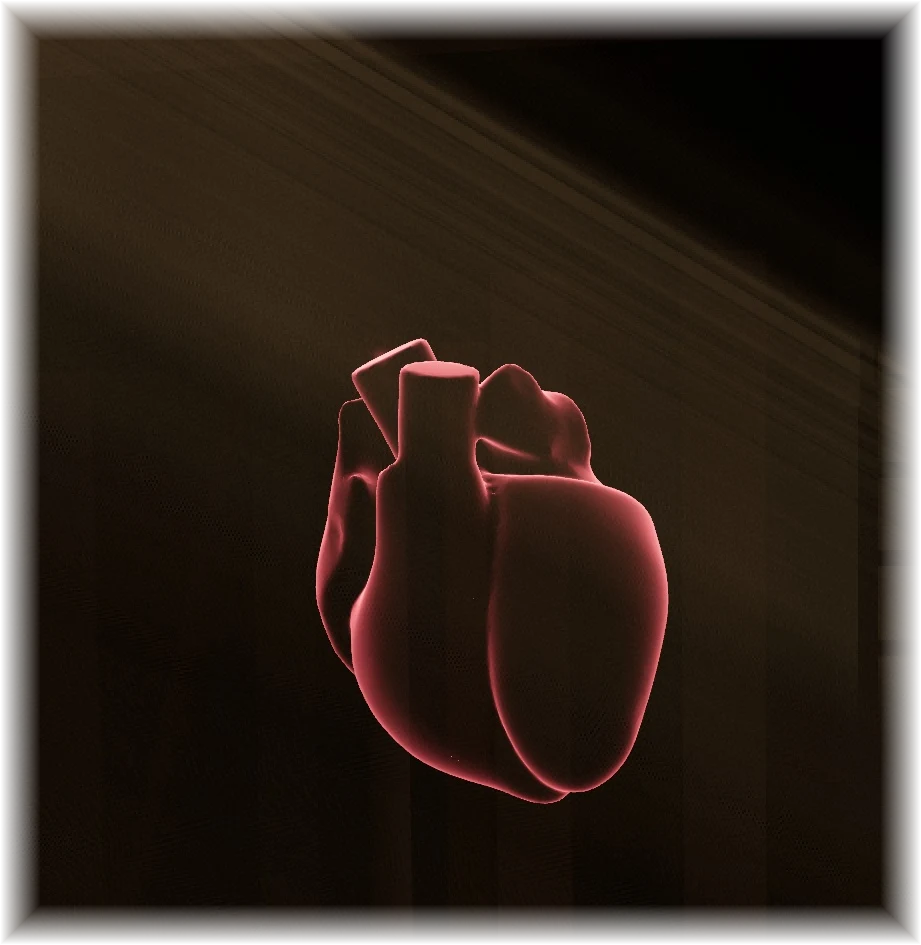
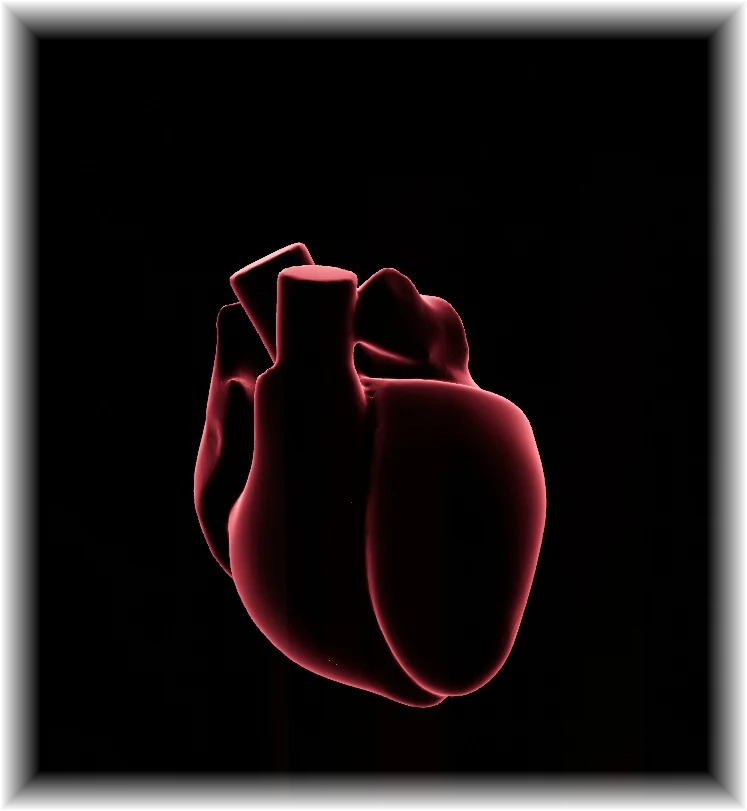
D-195 round 2: clear stale fog render when archive shafts switch off (light streaks in the intro wave stage), re-render heart frames
Claude-Session: https://claude.ai/code/session_01AXbpXSdzA7KrmCTamq6EbE

diff --git a/prototype/v2/src/story/intro/archive.ts b/prototype/v2/src/story/intro/archive.ts
@@ -376,13 +376,17 @@ export async function createArchive(variant:ArchiveVariant='base'){
       vec2 o=t-.5-f;float k=exp(-dot(o,o)*.45)*exp(-abs(q.a-dist)/(.04+.06*dist)*3.);s+=q.rgb*k;w+=k;}
      vec3 fogc=w>1e-4?s/w:texture2D(tFog,vUv).rgb;
      gl_FragColor=vec4(mix(col,uHazeCol,hz)+fogc,1.);}`}));
+  let fogDirty=false;
   class FogPass extends Pass{
    constructor(){super();this.needsSwap=true;}
    setSize(w:number,h:number){fogRT.setSize(Math.max(1,Math.ceil(w/2)),Math.max(1,Math.ceil(h/2)));cu.uFogSize.value.set(fogRT.width,fogRT.height);}
    render(r:THREE.WebGLRenderer,write:THREE.WebGLRenderTarget,read:THREE.WebGLRenderTarget){
     cu.tBase.value=read.texture;
-    if(vu.uOn.value<.002&&vu.uCOn.value<.002){r.setRenderTarget(this.renderToScreen?null:write);comp.render(r);return;}   // haze only
-    r.setRenderTarget(fogRT);fogQ.render(r);
+    // 2026-11-25 D-195: 빛기둥이 꺼지면 마지막 안개 그림(fogRT)이 남아 합성에 그대로 더해졌다(합성은 안개를 세기와 무관하게 더함) —
+    // 진행이 급히 바뀌면(영상 녹화 · 되돌아가기) 첫 화면의 빛줄기가 파형 단계에 남음. 꺼지는 순간 한 번 비운다.
+    if(vu.uOn.value<.002&&vu.uCOn.value<.002){if(fogDirty){const cc=r.getClearColor(new THREE.Color()),ca=r.getClearAlpha();r.setRenderTarget(fogRT);r.setClearColor(0x000000,0);r.clear();r.setClearColor(cc,ca);fogDirty=false;}
+     r.setRenderTarget(this.renderToScreen?null:write);comp.render(r);return;}   // haze only
+    r.setRenderTarget(fogRT);fogQ.render(r);fogDirty=true;
     r.setRenderTarget(this.renderToScreen?null:write);comp.render(r);}
    dispose(){fogRT.dispose();fogQ.dispose();comp.dispose();}
   }

diff --git a/prototype/v2/src/story/intro/introStage.ts b/prototype/v2/src/story/intro/introStage.ts
@@ -124,6 +124,7 @@ export async function createIntro(dom:IntroDom,data:IntroData,opt:IntroOptions){
  // D-190 ?perf=merge: 출력 변환 + 색보정 한 단계(createFinal) · ?perf=fxaa: MSAA 대신 마지막에 FXAA 한 단계(sRGB 화면에서)
  const MERGE=PERF.has('merge'),FXAA=PERF.has('fxaa');
  const grade=MERGE?createFinal(renderer.toneMappingExposure):createGrade();
+ if(IQ.has('introdbg'))(globalThis as unknown as {__introDbg:unknown}).__introDbg={renderer,composer,bloom,grade,scene};   // 원인 분석용(?introdbg)
  if(MERGE)composer.addPass(grade);else{composer.addPass(new OutputPass());if(!OFF('igrade'))composer.addPass(grade);}
  const fxaa=FXAA?new FXAAPass():null;if(fxaa)composer.addPass(fxaa);
  const grid=createGrid(dom.grid);

diff --git a/PLAN.md b/PLAN.md
@@ -1,3 +1,4 @@
+- 2026-11-25 D-195 2차: 도입부 파형 단계의 빛줄기 — 원인 = 서고 안개 효과가 세기 0일 때 마지막 안개 그림을 계속 더함(녹화가 진행을 건너뛰어 첫 화면 빛기둥이 남음). 안개 그림을 비우도록 고치고 심장 박동 프레임 재녹화. 진행 중: 잡음 3장면 영상화(D-196).
 - 2026-11-25 **D-195**: 도입부 3D 장면 → 미리 렌더한 영상(9.3 MB), 파형 · 겹침 · 글자 실시간, 심장은 R 피크에 맞춘 박동 프레임, 시점 흔들림(부드럽게 따라감) · 화면 유체 유지. 소프트웨어 렌더 기준 파형 단계 1–3 → 41 fps. 대기: 사용자 노트북 확인(`npm run story`, 비교 `npm run story:live`).
 - 2026-11-25 **D-194 구현**: 특징별 표시 구간(0.25 s 단위) + 확대 · 축소 0.8 s(특징 중심 고정, 격자 함께), 같은 멈춤 안 넓게 → 좁게, 좁은 설명이 끝나면 비네팅 해제와 함께 5 s 복귀, 배율 표식 · 개관 띠, 옵션 A9 · A10. 대기: 사용자 확인.
 - 2026-11-25 **D-194 설계안**: 특징별 표시 구간(측정: 리듬 34–61 % · 형태 4–11 %) + 구간 확대 · 축소 애니메이션. 규칙 = max(초점 ÷ 0.35, 1.5 박동, 1.25 s) · 상한 5 s · 동서맥만 10 s. 대기: 연속값 · 순서 · 확대 중심 사용자 결정(IDEA-R1-DISEASE-ZOOM).

diff --git a/WORKLOG.md b/WORKLOG.md
@@ -539,3 +539,4 @@ Recovered original Release ZIP (340775483 bytes, SHA256 9070d4aacea61d2476473fbd
 - 2026-11-25 D-194 implemented: tour.ts stepSpan/stepView/order, DiseaseTour zoom (in/move/out, log span, anchored focus, grid phase), Plot viewRef/redrawOut, paper phase + fadeSmall (zoom only), badge + minimap; zoom_shots 10 diseases + zoom off, 22 unit tests.
 - 2026-11-25 D-195 WIP: share.cjs measurement, introVideo.ts (first loop / descent / heart sprite, engine clock = T0 + video time), introStage video path (GL draw skipped, screenFluid off, ?introlive / ?perf → live), renderOnce dt + set({beat}) for frame rendering, render_frames.cjs / make_assets.py, prepare-v2 + run.mjs copy/stale for data/intro-video, story:live.
 - 2026-11-25 D-195 done: frames rendered (preview build), make_assets (GOP fix 1.35 → 0.28 step, crf 16 rejected), data/intro-video 9.3 MB, gaze overscan (k = 1 − exp(−2dt)) + screenFluid draws video, video_flow 60/60/41 fps, gaze_fluid.
+- 2026-11-25 D-195 round 2: stale fogRT in archive fogPass (additive regardless of uOn) → cleared when shafts switch off; heart frames re-rendered (idle 19.5 → 1.8); analysis scripts state_diff / time_sweep / live_flow_ref.
